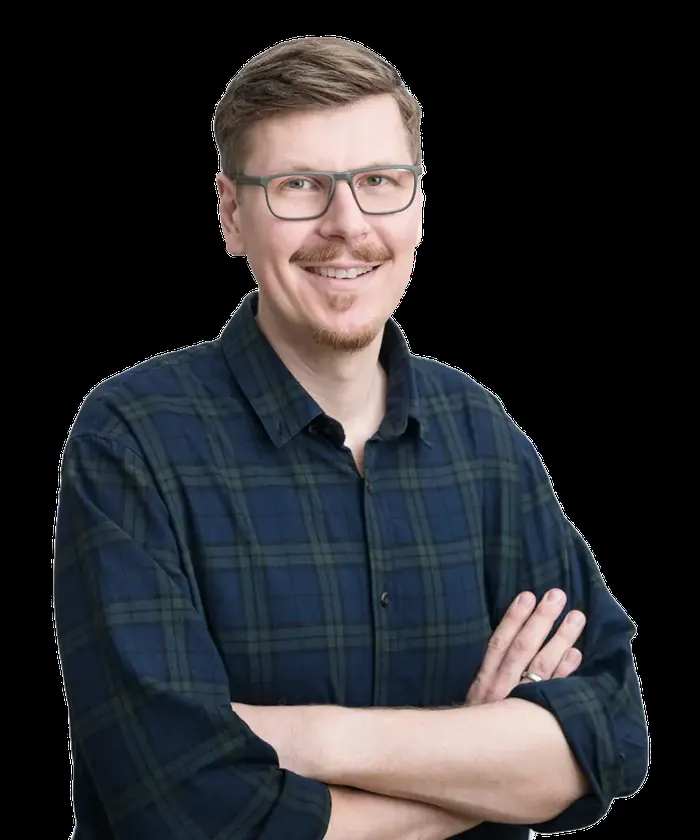
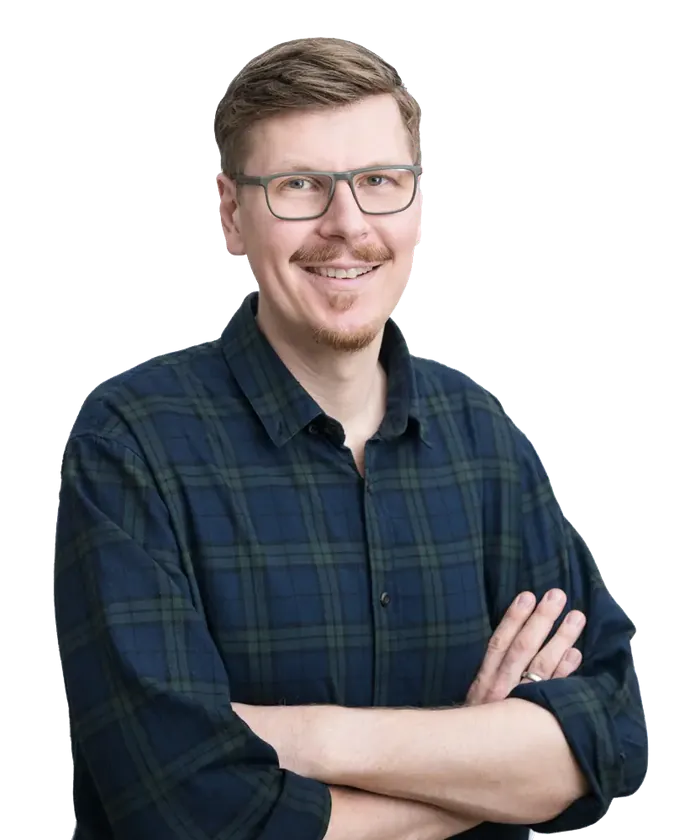
Testseite: Enno-Foto freigestellt, Stimmen als Slider
Claude-Session: https://claude.ai/code/session_01Wk3fvDZXSU4RZp6h4ETNbh

diff --git a/seite/startseite-test/index.html b/seite/startseite-test/index.html
@@ -77,13 +77,15 @@ nav ul{list-style:none;margin:0;padding:0}
 .intro p+p{margin-top:14px}
 
 /* Enno */
-.enno{background:var(--grau);padding:72px 0}
-.enno .inner{display:grid;grid-template-columns:1.3fr 1fr;gap:56px;align-items:center}
+.enno{background:var(--grau);padding:72px 0 0}
+.enno .inner{display:grid;grid-template-columns:1.3fr 1fr;gap:56px;align-items:end}
+.enno .inner>div{padding-bottom:72px}
 .enno h2{font-size:1.25rem;margin:10px 0 14px}
 .enno p+p{margin-top:12px}
 .enno .eyebrow{color:var(--ausdauer);font-size:1.35rem}
 .enno .btn{margin-top:22px}
 .enno img{width:100%;max-width:400px;justify-self:center}
+@media (max-width:800px){.enno .inner>div{padding-bottom:0}}
 @media (max-width:800px){.enno .inner{grid-template-columns:1fr;gap:32px}}
 
 /* Zahlen */
@@ -125,9 +127,19 @@ nav ul{list-style:none;margin:0;padding:0}
 .stimme small{display:block;font-size:.82rem;line-height:1.35}
 .stimme q{font-family:var(--slab);color:var(--kompetenz);font-weight:500;quotes:"„" "“"}
 .stimme p{font-size:.95rem}
-.mehr{margin-top:22px}
-.mehr summary{cursor:pointer;color:var(--kompetenz);font-weight:700;padding:8px 0}
-.mehr .raster{margin-top:16px}
+.slider{position:relative}
+.spur{display:grid;grid-auto-flow:column;grid-auto-columns:calc((100% - 44px)/3);gap:22px;overflow-x:auto;scroll-snap-type:x mandatory;scroll-behavior:smooth;scrollbar-width:none;padding-bottom:4px}
+.spur::-webkit-scrollbar{display:none}
+.spur .stimme{scroll-snap-align:start}
+@media (max-width:900px){.spur{grid-auto-columns:calc((100% - 22px)/2)}}
+@media (max-width:600px){.spur{grid-auto-columns:88%}}
+.pfeil{position:absolute;top:50%;transform:translateY(-50%);width:44px;height:44px;border-radius:50%;border:0;background:var(--kompetenz);color:#fff;font-size:1.6rem;line-height:1;cursor:pointer;box-shadow:0 6px 16px -8px rgba(24,49,84,.6)}
+.pfeil:disabled{opacity:.3;cursor:default}
+.zurueck{left:-22px}.weiter{right:-22px}
+@media (max-width:1240px){.zurueck{left:4px}.weiter{right:4px}}
+.punkte{display:flex;justify-content:center;gap:8px;margin-top:18px}
+.punkte span{width:8px;height:8px;border-radius:50%;background:#c9cdd6}
+.punkte span.an{background:var(--kompetenz)}
 .stimmen .btn{margin-top:30px}
 
 /* Blog */
@@ -293,17 +305,14 @@ footer .social svg{width:26px;height:26px}
   <section class="stimmen">
     <div class="inner">
       <h2 class="eyebrow">Stimmen zu unserer Arbeit</h2>
-      <div class="raster">
-        <article class="stimme"><header><img src="bilder/stimme-nadja.webp" alt="Kundenstimme Nadja" width="64" height="64" loading="lazy"><div><b>Nadja</b><small>Fachkraft im Schulbegleitungsbereich</small></div></header><q>Ein respektvoller, ressourcenorientierter Umgang mit dem Thema.</q><p>Die Fortbildung hat mich fachlich und persönlich sehr bereichert. Ich habe ein tieferes Verständnis für Menschen im Autismus-Spektrum und viele Denkanstöße für meinen pädagogischen Blick gewonnen. Besonders die praxisnahen Beispiele nehme ich mit – ich würde es jederzeit wieder machen.</p></article>
-        <article class="stimme"><header><img src="bilder/stimme-kathy.webp" alt="Kundenstimme Kathy" width="64" height="64" loading="lazy"><div><b>Kathy</b><small>Staatlich anerkannte Erzieherin und Inklusionsfachkraft</small></div></header><q>Wertvolle und vor allem wertschätzende Tipps.</q><p>Es war wirklich eine ganz tolle Fortbildung mit wertvollen, vor allem wertschätzenden Tipps. Auch die Lernplattform und die Community haben mich begeistert. Als Erzieherin und Inklusionsfachkraft in einer Kita werde ich auf jeden Fall weiterhin an den Praxis-Stammtischen teilnehmen. Absolut verdiente 5 Sterne!</p></article>
-        <article class="stimme"><header><img src="bilder/stimme-gerald.webp" alt="Kundenstimme Gerald" width="64" height="64" loading="lazy"><div><b>Gerald</b><small>Pädagoge, psychosozialer Berater und Referent</small></div></header><q>Nicht Druck verändert Verhalten, sondern Verständnis und Beziehung.</q><p>Als Pädagoge und Vater eines Kindes mit AD(H)S kannte ich vieles bereits – trotzdem hat mir die Fortbildung einen völlig neuen Blick eröffnet. Das Gelernte konnte ich sofort im Familienalltag umsetzen. Meine wichtigste Erkenntnis: Nicht Druck verändert Verhalten, sondern Verständnis und Beziehung.</p></article>
-        <article class="stimme"><header><img src="bilder/stimme-carola.webp" alt="Kundenstimme Carola" width="64" height="64" loading="lazy"><div><b>Carola</b><small>Eltern- und Familienberatung, Kursleiterin</small></div></header><q>Flexibel, praxisnah und fachlich auf höchstem Niveau.</q><p>Die Fortbildung war sehr gut strukturiert. Besonders geschätzt habe ich, die Videos im eigenen Tempo bearbeiten zu können – wunderbar in meinen Berufsalltag integrierbar. Das Expertenwissen wird verständlich vermittelt, und die Praxis-Stammtische zur Fallbesprechung sind eine echte Bereicherung.</p></article>
-        <article class="stimme"><header><img src="bilder/stimme-julia.webp" alt="Kundenstimme Julia" width="64" height="64" loading="lazy"><div><b>Julia</b><small>Volksschullehrerin</small></div></header><q>Sofort umsetzbar – und goldwert.</q><p>Die Fortbildung beinhaltet immens viel Wissen, bedacht aufgeteilt. Vieles konnte ich mir aneignen und gleich anwenden – das hat mir einen großen Handlungsspielraum in der Begleitung von Autist:innen eröffnet. Besonders hervorzuheben sind Ennos wohlwollende Haltung und seine Alltagsbeispiele; der lebenslange Zugriff ist unbezahlbar.</p></article>
-        <article class="stimme"><header><img src="bilder/stimme-marie.webp" alt="Kundenstimme Marie" width="64" height="64" loading="lazy"><div><b>Marie</b><small>Erzieherin und Fachkraft für tiergestützte Interventionen</small></div></header><q>Direkt einsetzbar – auch in der tiergestützten Arbeit.</q><p>Eine sehr informative und praxisnahe Fortbildung, die mir großen Spaß gemacht hat. Sie hat meine Sichtweise und Haltung gegenüber Menschen im Autismus-Spektrum nachhaltig verändert. Besonders bereichernd sind die regelmäßigen Praxis-Stammtische mit ihren Fallbeispielen – sie runden das Angebot perfekt ab.</p></article>
-      </div>
-      <details class="mehr">
-        <summary>Weitere Stimmen anzeigen</summary>
-        <div class="raster">
+      <div class="slider" aria-roledescription="Karussell" aria-label="Stimmen zu unserer Arbeit">
+        <div class="spur" id="spur" tabindex="0">
+          <article class="stimme"><header><img src="bilder/stimme-nadja.webp" alt="Kundenstimme Nadja" width="64" height="64" loading="lazy"><div><b>Nadja</b><small>Fachkraft im Schulbegleitungsbereich</small></div></header><q>Ein respektvoller, ressourcenorientierter Umgang mit dem Thema.</q><p>Die Fortbildung hat mich fachlich und persönlich sehr bereichert. Ich habe ein tieferes Verständnis für Menschen im Autismus-Spektrum und viele Denkanstöße für meinen pädagogischen Blick gewonnen. Besonders die praxisnahen Beispiele nehme ich mit – ich würde es jederzeit wieder machen.</p></article>
+          <article class="stimme"><header><img src="bilder/stimme-kathy.webp" alt="Kundenstimme Kathy" width="64" height="64" loading="lazy"><div><b>Kathy</b><small>Staatlich anerkannte Erzieherin und Inklusionsfachkraft</small></div></header><q>Wertvolle und vor allem wertschätzende Tipps.</q><p>Es war wirklich eine ganz tolle Fortbildung mit wertvollen, vor allem wertschätzenden Tipps. Auch die Lernplattform und die Community haben mich begeistert. Als Erzieherin und Inklusionsfachkraft in einer Kita werde ich auf jeden Fall weiterhin an den Praxis-Stammtischen teilnehmen. Absolut verdiente 5 Sterne!</p></article>
+          <article class="stimme"><header><img src="bilder/stimme-gerald.webp" alt="Kundenstimme Gerald" width="64" height="64" loading="lazy"><div><b>Gerald</b><small>Pädagoge, psychosozialer Berater und Referent</small></div></header><q>Nicht Druck verändert Verhalten, sondern Verständnis und Beziehung.</q><p>Als Pädagoge und Vater eines Kindes mit AD(H)S kannte ich vieles bereits – trotzdem hat mir die Fortbildung einen völlig neuen Blick eröffnet. Das Gelernte konnte ich sofort im Familienalltag umsetzen. Meine wichtigste Erkenntnis: Nicht Druck verändert Verhalten, sondern Verständnis und Beziehung.</p></article>
+          <article class="stimme"><header><img src="bilder/stimme-carola.webp" alt="Kundenstimme Carola" width="64" height="64" loading="lazy"><div><b>Carola</b><small>Eltern- und Familienberatung, Kursleiterin</small></div></header><q>Flexibel, praxisnah und fachlich auf höchstem Niveau.</q><p>Die Fortbildung war sehr gut strukturiert. Besonders geschätzt habe ich, die Videos im eigenen Tempo bearbeiten zu können – wunderbar in meinen Berufsalltag integrierbar. Das Expertenwissen wird verständlich vermittelt, und die Praxis-Stammtische zur Fallbesprechung sind eine echte Bereicherung.</p></article>
+          <article class="stimme"><header><img src="bilder/stimme-julia.webp" alt="Kundenstimme Julia" width="64" height="64" loading="lazy"><div><b>Julia</b><small>Volksschullehrerin</small></div></header><q>Sofort umsetzbar – und goldwert.</q><p>Die Fortbildung beinhaltet immens viel Wissen, bedacht aufgeteilt. Vieles konnte ich mir aneignen und gleich anwenden – das hat mir einen großen Handlungsspielraum in der Begleitung von Autist:innen eröffnet. Besonders hervorzuheben sind Ennos wohlwollende Haltung und seine Alltagsbeispiele; der lebenslange Zugriff ist unbezahlbar.</p></article>
+          <article class="stimme"><header><img src="bilder/stimme-marie.webp" alt="Kundenstimme Marie" width="64" height="64" loading="lazy"><div><b>Marie</b><small>Erzieherin und Fachkraft für tiergestützte Interventionen</small></div></header><q>Direkt einsetzbar – auch in der tiergestützten Arbeit.</q><p>Eine sehr informative und praxisnahe Fortbildung, die mir großen Spaß gemacht hat. Sie hat meine Sichtweise und Haltung gegenüber Menschen im Autismus-Spektrum nachhaltig verändert. Besonders bereichernd sind die regelmäßigen Praxis-Stammtische mit ihren Fallbeispielen – sie runden das Angebot perfekt ab.</p></article>
           <article class="stimme"><header><img src="bilder/stimme-carsten.webp" alt="Kundenstimme Carsten" width="64" height="64" loading="lazy"><div><b>Carsten</b><small>Sonderpädagoge</small></div></header><q>Professionell, effektiv und netzwerkorientiert</q><p>Ich habe schon viele Fortbildungen gemacht, keine war so gut strukturiert wie diese. Die Möglichkeit, alle Inhalte im eigenen Tempo zu erarbeiten und bei eventuell aufkommenden Fragen jederzeit bei den Stammtischen Antworten erhalten zu können erachte ich als ideal für wirklich jede/n.</p></article>
           <article class="stimme"><header><img src="bilder/stimme-stefanie.webp" alt="Kundenstimme Stefanie" width="64" height="64" loading="lazy"><div><b>Stefanie</b><small>Heilpädagogin</small></div></header><q>Hat mich in meiner Arbeit als Heilpädagogin sehr bestärkt.</q><p>Die Fortbildung „Autismus-Pädagogik“ hat mich in meiner Arbeit als Heilpädagogin sehr bestärkt. Ich konnte viele Themen nochmals vertiefen, aber auch Neues dazulernen. In den Live Calls fühlte man sich immer sehr gut begleitet und professionell beraten.</p></article>
           <article class="stimme"><header><img src="bilder/stimme-yvonne.webp" alt="Kundenstimme Yvonne" width="64" height="64" loading="lazy"><div><b>Yvonne</b><small>Integrationslehrerin</small></div></header><q>Genau das Richtige – Gelerntes direkt anwenden.</q><p>Die Fortbildung ist für mich genau richtig. Ich kann alle Inhalte in meinem eigenen Tempo lernen, was perfekt zu meinem Alltag als Integrationslehrerin passt. Das Gelernte lässt sich direkt in der Praxis anwenden.</p></article>
@@ -313,7 +322,10 @@ footer .social svg{width:26px;height:26px}
           <article class="stimme"><header><img src="bilder/stimme-dijana.webp" alt="Kundenstimme Dijana" width="64" height="64" loading="lazy"><div><b>Dijana</b><small>Lehrerin und Kinder- und Jugendbetreuerin</small></div></header><q>Individuelles Lerntempo, klar verständliche Inhalte.</q><p>Die Fortbildung war sehr wertvoll. Am hilfreichsten war für mich, dass das Tempo individuell anpassbar ist und die Lerninhalte klar und verständlich aufbereitet sind.</p></article>
           <article class="stimme"><header><img src="bilder/stimme-cordula.webp" alt="Kundenstimme Cordula" width="64" height="64" loading="lazy"><div><b>Cordula</b><small>Beratungs- und Förderlehrkraft (BFZ), Psychologische Beratung und Coaching für Kinder und Jugendliche</small></div></header><q>Ein echter Augenöffner – praxisnah und fachlich fundiert.</q><p>Die Fortbildung hat mein Verständnis für Autismus deutlich vertieft und mir viele praxisnahe Impulse für meine Arbeit als Beratungs- und Förderlehrkraft gegeben. Besonders das Modul „Komorbiditäten und herausforderndes Verhalten“ hat mir neue Perspektiven eröffnet. Die Schritt-für-Schritt-Struktur hilft, das Wissen systematisch aufzubauen und mit dem eigenen Erfahrungsschatz abzugleichen.</p></article>
         </div>
-      </details>
+        <button class="pfeil zurueck" type="button" id="zurueck" aria-label="Vorherige Stimmen">‹</button>
+        <button class="pfeil weiter" type="button" id="weiter" aria-label="Nächste Stimmen">›</button>
+      </div>
+      <div class="punkte" id="punkte" aria-hidden="true"></div>
       <a class="btn" href="https://akademieneurodiversitaet.com/erfolgsgeschichten/">Mehr Erfolgsgeschichten lesen</a>
     </div>
   </section>
@@ -371,5 +383,14 @@ footer .social svg{width:26px;height:26px}
   </div>
   <div class="copy"><div class="inner">© 2026 Akademie Neurodiversität · fachkundig verstehen. praxisorientiert begleiten.</div></div>
 </footer>
+<script>
+(function(){var s=document.getElementById("spur"),z=document.getElementById("zurueck"),w=document.getElementById("weiter"),p=document.getElementById("punkte");
+function seite(){return s.clientWidth}
+function anzahl(){return Math.max(1,Math.ceil((s.scrollWidth-2)/seite()))}
+function zeichne(){var n=anzahl(),i=Math.round(s.scrollLeft/seite());p.innerHTML="";for(var k=0;k<n;k++){var d=document.createElement("span");if(k===i)d.className="an";p.appendChild(d)}
+z.disabled=s.scrollLeft<5;w.disabled=s.scrollLeft+seite()>=s.scrollWidth-5}
+z.onclick=function(){s.scrollBy({left:-seite()})};w.onclick=function(){s.scrollBy({left:seite()})};
+var t;s.addEventListener("scroll",function(){clearTimeout(t);t=setTimeout(zeichne,80)});window.addEventListener("resize",zeichne);zeichne()})();
+</script>
 </body>
 </html>
